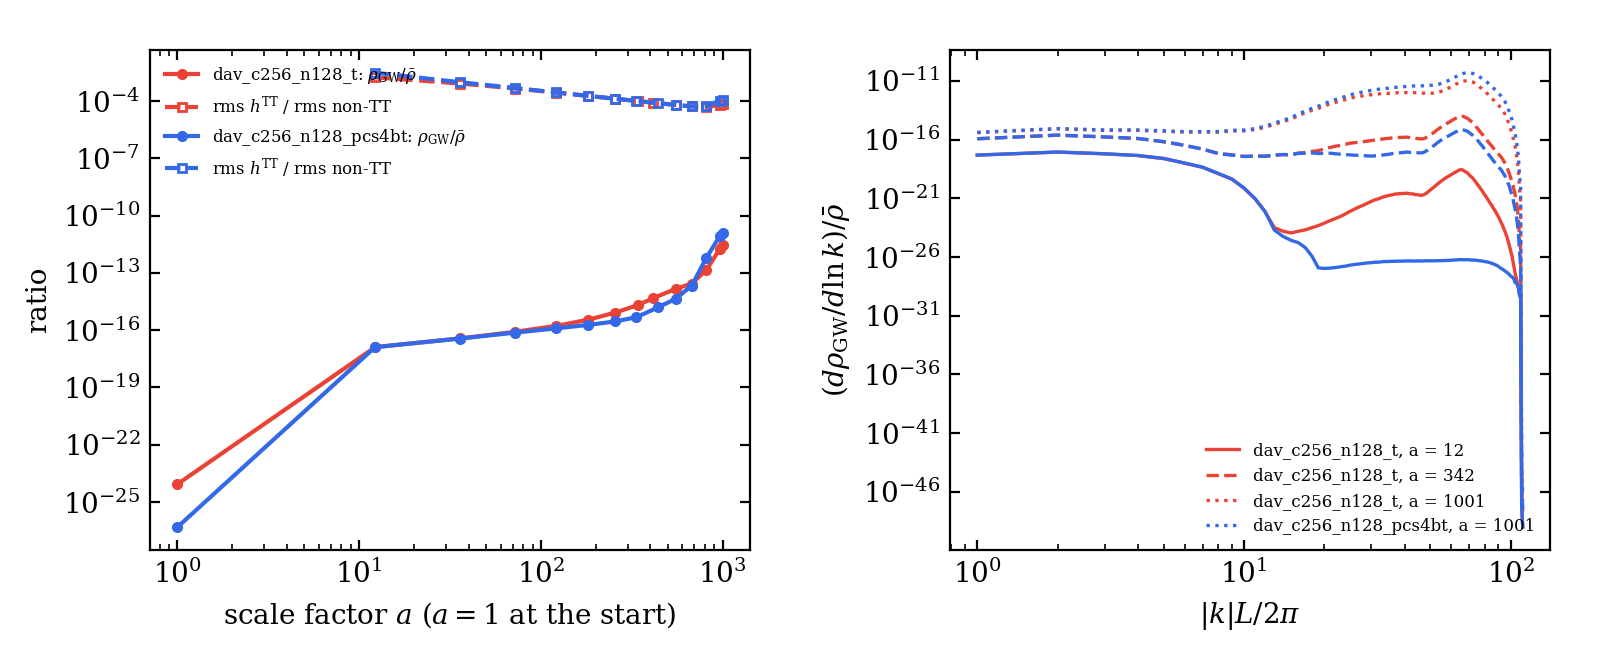
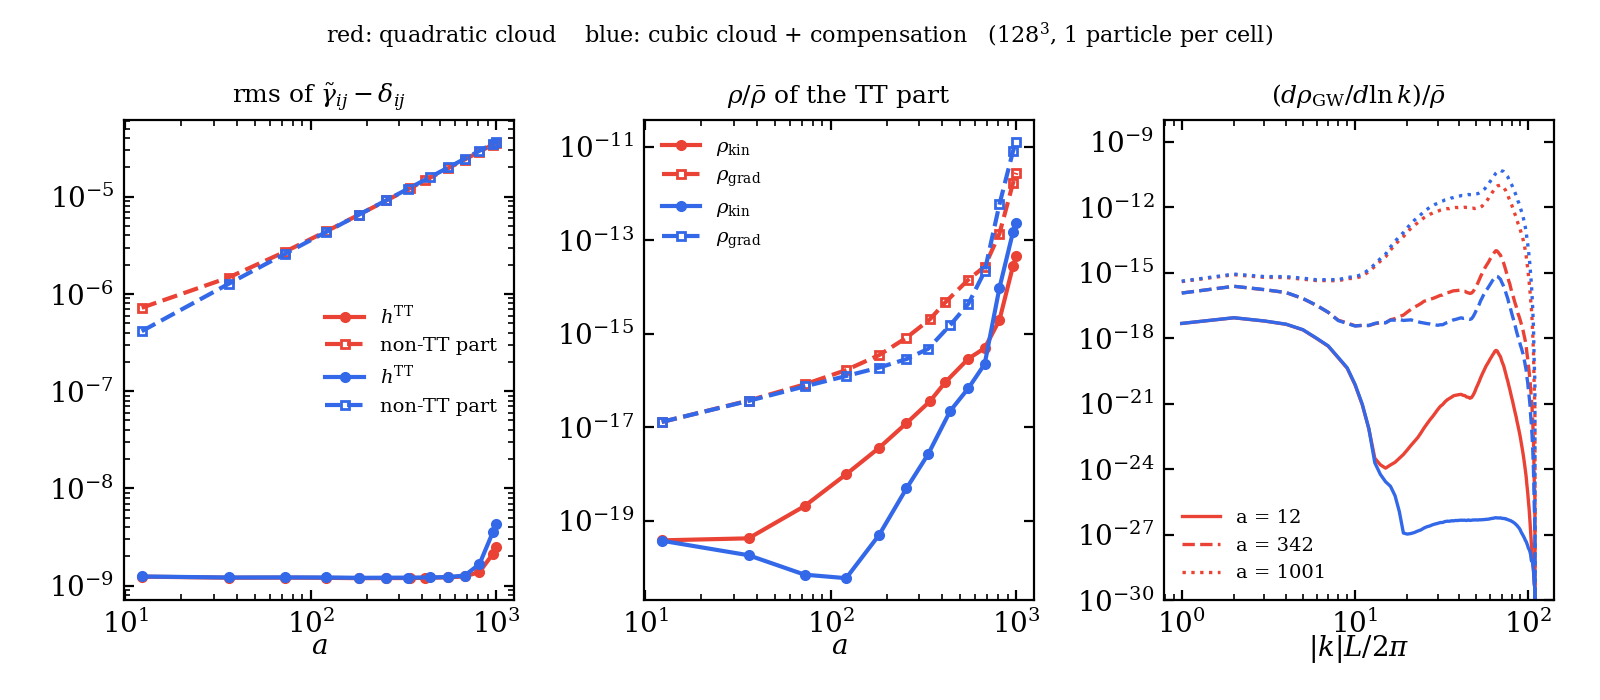
gw_diag: scouting on full-GR cosmology dumps: frozen deposit-independent TT part (rms 1.2e-9) and deposit-noise TT power at high k (up to 1100x between clouds) (runs ...-120846-d1509b5, ...-121143-0eace55)
Claude-Session: https://claude.ai/code/session_01VD79cUYemmpt27M8dtYPfW

diff --git a/tracks/B-emd-gw/gw_diag/JOURNAL.md b/tracks/B-emd-gw/gw_diag/JOURNAL.md
@@ -315,3 +315,27 @@ from a = 1 to ~1000 (cosmo/TESTLOG.md, C5). All [JUDGEMENT]:
 Run B-emd-gw-20261115-120531-40a3597 FAILED at the first dump (ZeroDivisionError): the initial
 data of the cosmology runs are conformally flat, tilde gamma = delta exactly, so h and its non-TT
 part are zero at a = 1. Guarded (ratio recorded as null) and rerun.
+
+## Outcome of the cosmology scouting, runs B-emd-gw-20261115-120846-d1509b5 (diagnostics) and -121143-0eace55 (figure, ratios)
+
+Figure `figs/cosmo_tt.png`; numbers in `results_cosmo.json`, `cosmo_ratios.json` of the two runs.
+(1) PASSED: 14 dumps per run read (8 MeshBlocks... 128^3, L = 2.70 code units), a from 1.00 to 1000.99.
+(2) PASSED: rms h^TT / rms(non-TT) between 3e-3 (a = 12) and 5e-5; at a = 1 both are zero
+    (conformally flat initial data, see the failed first run).
+(3) PASSED: rho_GW/rho_bar from 1.3e-17 (a = 12) to 2.8e-12 (quadratic) / 1.3e-11 (cubic) at a = 1001.
+    Not predicted: the TT part is nearly frozen, rms h^TT = 1.2e-9 from a = 12 to a ~ 550 in both
+    runs, and its energy is almost all gradient energy (rho_kin/rho_grad ~ 3e-3 at a = 12, ~2e-2 at
+    a = 1001). So it is not freely propagating radiation; rho_kin + rho_grad and the Isaacson
+    2 rho_kin differ by orders of magnitude here. Interpretation [JUDGEMENT, not tested]: the
+    second-order tensor mode induced by the scalar potential (|Phi| <= 7e-5 at the start,
+    cosmo/TESTLOG.md C5, so Phi^2 ~ 1e-9), which is constant in a matter era. rho_K of
+    arXiv:2111.09163 (our rho_kin) is the quantity with a kinetic meaning.
+(4) PASSED with a twist: below the power cut-off (|k|L/2pi <= 6) the two deposits agree to 1 %
+    (a = 12) .. 9 % (a = 1001); in 10 <= |k|L/2pi <= 60 the quadratic cloud carries 56x (a = 12)
+    to 1100x (a = 72) more TT energy than the compensated cubic cloud until a ~ 550 — deposit
+    noise; after a ~ 650 (nonlinear stage) the cubic cloud has 1.5-3.9x more. The early
+    high-k TT content is particle/deposit noise (the brief's main risk for this track), and the
+    diagnostic separates it from the low-k part by its deposit dependence.
+(5) PASSED: at the last dump of the quadratic run rms B/rms E = 2.9e-3 and rms(Lambda E)/rms E =
+    9.7e-3: the Weyl field of the box is the Coulomb-type tidal part; Psi_4 along x (rms 4.9e-10)
+    is not a wave measure here.

diff --git a/tracks/B-emd-gw/gw_diag/README.md b/tracks/B-emd-gw/gw_diag/README.md
@@ -15,6 +15,7 @@ code here. Status: deliverables exist and are tested (see "Validation"); open it
 | `tests/` | pytest unit tests (14; two of them need real files, see below) |
 | `scripts/validate_tt.py`, `validate_weyl.py`, `validate_athenak.py` | validation runs with figures and JSON |
 | `scripts/registered.py` | runs a command as a registered run (manifest in `../runs/<run_id>/`) |
+| `scripts/cosmo_demo.py`, `cosmo_demo_plot.py` | scouting: the diagnostics on restart dumps of full-GR cosmology runs |
 | `figs/` | PNG copies of the validation figures (PDFs in the run directories) |
 | `JOURNAL.md` | predictions and outcomes, including the failed ones |
 
@@ -128,6 +129,13 @@ Each validation takes 7-40 s on 4-8 cores. Outputs land in
 | d_tau h^TT from tilde A against time differences of the dumps | equals the truncation of the differences (2.55e-2 vs 2.57e-2; 7.8e-4 vs 7.9e-4) | same |
 | AthenaK weyl output vs gwdiag radial-triad Psi_4 | 3e-7..1.8e-6 at t_n - 7 dt; output lags by waveform_dt - dt | same |
 | readers: own vs periodic_z4c reader bit-identical; synthetic multi-block rst with trackers; real cosmology rst (8 blocks) and NRFIELD | pass | unit tests |
+
+Scouting on existing full-GR cosmology dumps (`runs/cosmo/dav_c256_n128_{t,pcs4bt}`, 128^3,
+a = 1..1000; runs B-emd-gw-20261115-120846-d1509b5 and -121143-0eace55, `figs/cosmo_tt.png`):
+a nearly frozen TT part (rms h^TT = 1.2e-9 from a = 12 to ~550, deposit-independent, almost all
+gradient energy; [JUDGEMENT] the second-order induced tensor mode) plus high-k TT power that
+depends on the deposit by up to 1100x before the nonlinear stage (deposit noise);
+rho_GW/rho_bar reaches 3e-12 .. 1e-11 at a = 1000; rms B/E = 3e-3, rms(Lambda E)/E = 1e-2.
 
 ## Not done / open
 
